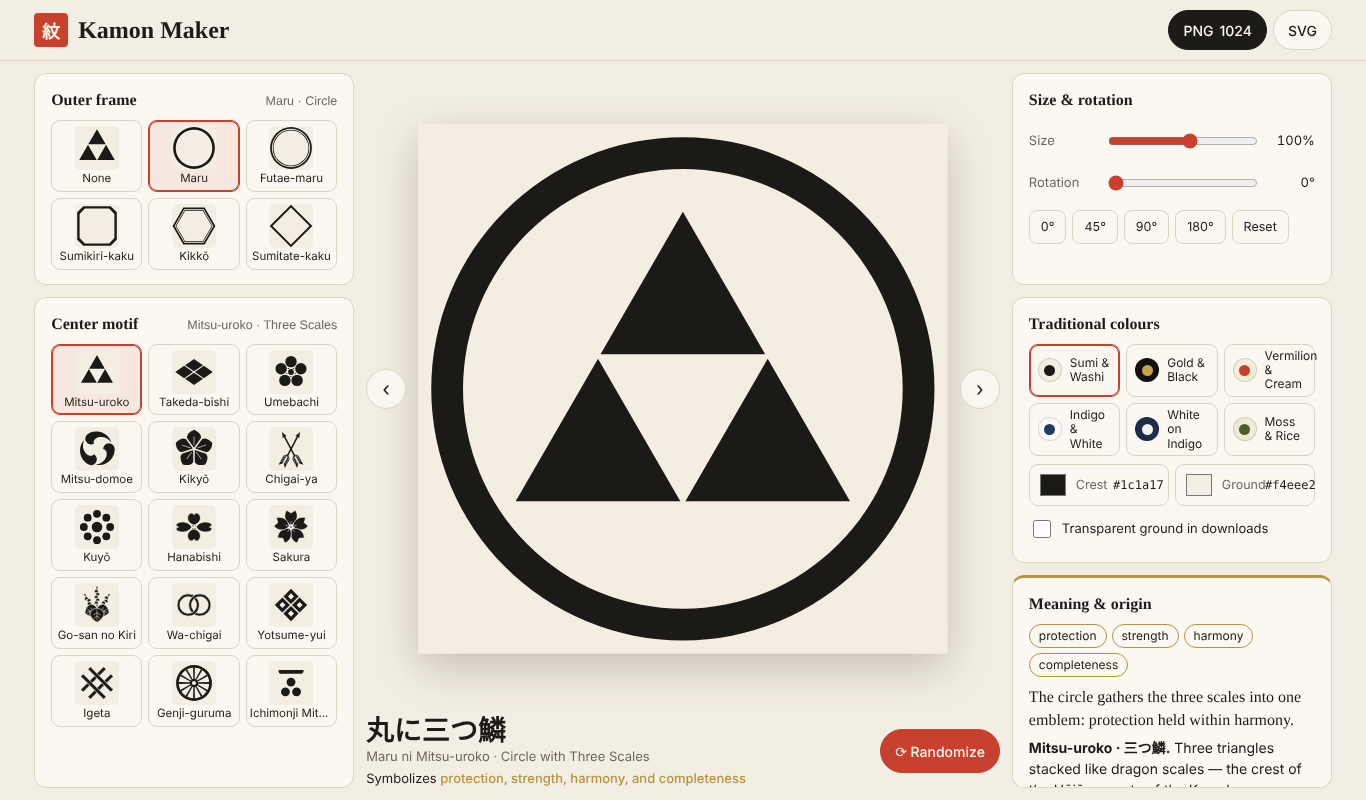
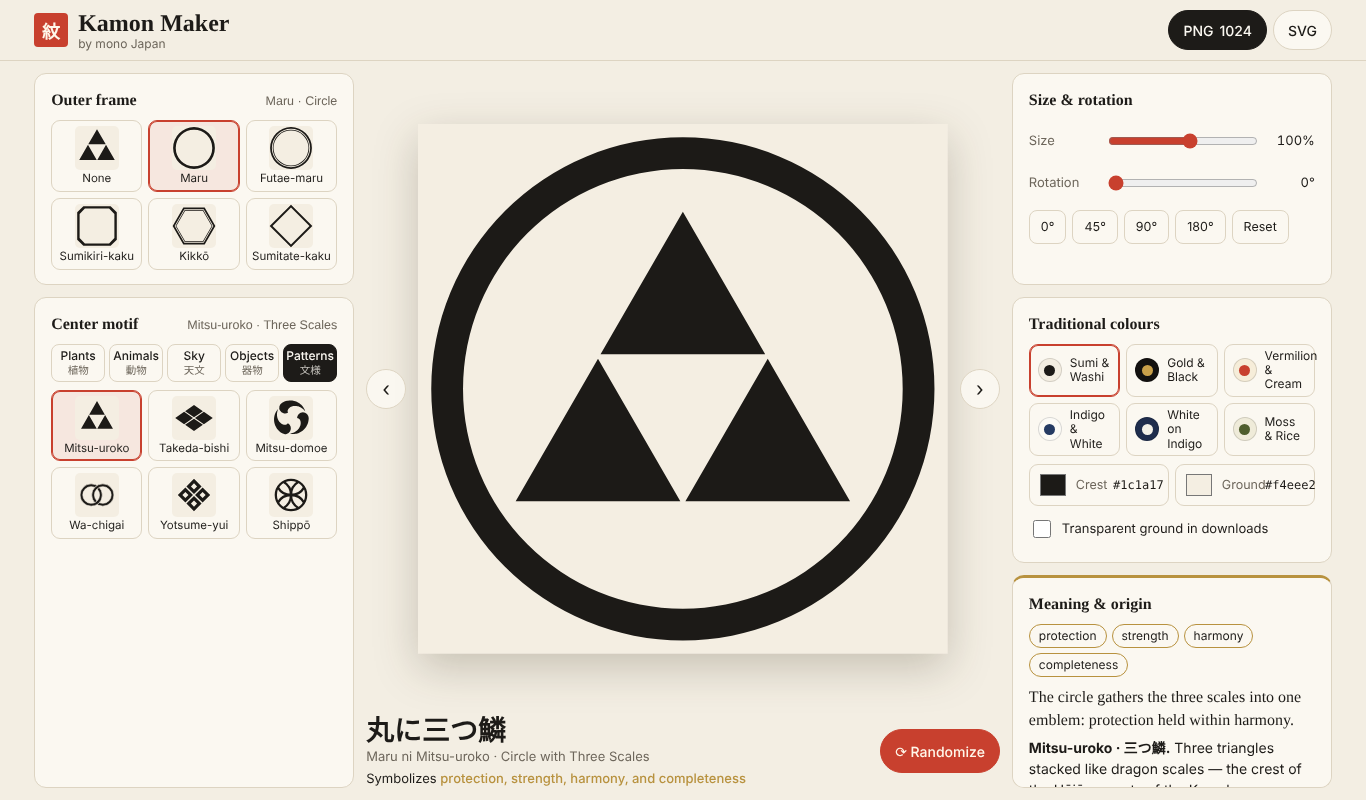
Add 14 motifs, motif categories and mono Japan credit
Claude-Session: https://claude.ai/code/session_0124S54WDTQFpv3xbj78Jc1Y

Changed region(s): [[0.0307, 0.4062, 0.246, 0.9062], [0.0615, 0.0, 0.1845, 0.0625]]

diff --git a/index.html b/index.html
@@ -29,7 +29,15 @@ button{cursor:pointer;-webkit-tap-highlight-color:transparent}
 /* header */
 .top{display:flex;align-items:center;gap:10px;padding:10px max(2.5vw,12px);border-bottom:1px solid var(--line)}
 .seal{width:34px;height:34px;background:var(--shu);color:#fff7ea;display:grid;place-items:center;font:700 18px "Shippori Mincho",serif;border-radius:4px;flex:none}
+.brand{display:flex;flex-direction:column;gap:3px;min-width:0}
 .top h1{font-size:clamp(19px,2.4vw,24px);line-height:1;white-space:nowrap}
+.by{font-size:12px;color:var(--mute);line-height:1;white-space:nowrap}
+.cats{display:grid;grid-template-columns:repeat(5,minmax(0,1fr));gap:4px;margin:0 0 8px}
+.cats button{min-height:38px;border:1px solid var(--line);border-radius:8px;background:transparent;display:grid;place-items:center;line-height:1.1;padding:3px 2px}
+.cats button span{font-size:12px;font-weight:500}
+.cats small{font-size:10.5px;color:var(--mute)}
+.cats button[aria-selected=true]{background:var(--sel);border-color:var(--sel);color:var(--selink)}
+.cats button[aria-selected=true] small{color:inherit;opacity:.75}
 .top .acts{margin-left:auto;display:flex;gap:6px}
 .btn{min-height:40px;padding:0 14px;border-radius:999px;border:1px solid var(--line);background:var(--card);font-weight:500;font-size:14px;display:inline-flex;align-items:center;gap:6px;white-space:nowrap}
 .btn:hover{border-color:var(--ink)}
@@ -179,59 +187,140 @@ const half=(cx)=>{const a=d=>[Math.cos(d*Math.PI/180),Math.sin(d*Math.PI/180)],[
 const dia=(cx,cy,a)=>poly([[cx,cy-a],[cx+a,cy],[cx,cy+a],[cx-a,cy]]);
 
 const MOTIFS=[
- {id:'uroko',name:'Mitsu-uroko',en:'Three Scales',jp:'三つ鱗',kw:['protection','strength'],
+ {id:'uroko',cat:'patterns',name:'Mitsu-uroko',en:'Three Scales',jp:'三つ鱗',kw:['protection','strength'],
   svg:()=>{const T=ngon(3,74,-Math.PI/2),m=(a,b)=>[(a[0]+b[0])/2,(a[1]+b[1])/2],ab=m(T[0],T[1]),bc=m(T[1],T[2]),ca=m(T[2],T[0]);
    return `<g transform="translate(0 6)"><path d="${[[T[0],ab,ca],[ab,T[1],bc],[ca,bc,T[2]]].map(t=>poly(shrink(t,.97))).join('')}"/></g>`},
   text:'Three triangles stacked like dragon scales — the crest of the Hōjō, regents of the Kamakura shogunate. A legend in the war chronicle Taiheiki tells how Hōjō Tokimasa prayed at Enoshima and found three scales left behind; Enoshima Shrine’s own crest was designed after this story.'},
- {id:'bishi',name:'Takeda-bishi',en:'Four Diamonds',jp:'武田菱',kw:['discipline','martial honour'],
+ {id:'bishi',cat:'patterns',name:'Takeda-bishi',en:'Four Diamonds',jp:'武田菱',kw:['discipline','martial honour'],
   svg:()=>{const a=78,b=54,c=[0,0],Q=[[0,-b],[a/2,-b/2],[a,0],[a/2,b/2],[0,b],[-a/2,b/2],[-a,0],[-a/2,-b/2]];
    return `<path d="${[[Q[0],Q[1],c,Q[7]],[Q[1],Q[2],Q[3],c],[c,Q[3],Q[4],Q[5]],[Q[7],c,Q[5],Q[6]]].map(t=>poly(shrink(t,.9))).join('')}"/>`},
   text:'A large diamond split into four — the crest of the Takeda clan of Kai province, the house of the warlord Takeda Shingen. The word hishi (diamond) is also the name of the water chestnut.'},
- {id:'ume',name:'Umebachi',en:'Plum Blossom',jp:'梅鉢',kw:['perseverance','learning'],
+ {id:'ume',cat:'plants',name:'Umebachi',en:'Plum Blossom',jp:'梅鉢',kw:['perseverance','learning'],
   svg:()=>ngon(5,41,-Math.PI/2).map(([x,y])=>`<circle cx="${f(x)}" cy="${f(y)}" r="22.5"/>`).join('')+`<circle r="11.5"/>`+ngon(5,17.5,Math.PI/2).map(([x,y])=>`<circle cx="${f(x)}" cy="${f(y)}" r="2.6"/>`).join(''),
   text:'A stylised plum blossom of five round petals. The plum flowers in late winter, so it stands for endurance. Plum crests belong to the cult of the scholar Sugawara no Michizane: Kitano Tenmangū in Kyoto, head shrine of Tenjin worship, uses a “star plum” variant.'},
- {id:'tomoe',name:'Mitsu-domoe',en:'Comma Swirl',jp:'三つ巴',kw:['cycles of life','guarding'],
+ {id:'tomoe',cat:'patterns',name:'Mitsu-domoe',en:'Comma Swirl',jp:'三つ巴',kw:['cycles of life','guarding'],
   svg:()=>{const p=tomoe();return [0,120,240].map(a=>rot(a,`<path d="${p}"/>`)).join('')},
   text:'Three comma shapes turning around a centre — one of the most common shrine crests, long associated with shrines to Hachiman, the deity the Minamoto warrior clan took as its guardian.'},
- {id:'kikyo',name:'Kikyō',en:'Bellflower',jp:'桔梗',kw:['sincerity','constancy'],
+ {id:'kikyo',cat:'plants',name:'Kikyō',en:'Bellflower',jp:'桔梗',kw:['sincerity','constancy'],
   svg:()=>{const pet=`<path d="M0-5L-27.5-43Q-29-64 0-76Q29-64 27.5-43Z"/><path d="M0-16V-48" stroke="${P}" stroke-width="2.4" stroke-linecap="round"/>`;
    return [0,72,144,216,288].map(a=>rot(a,pet)).join('')+`<circle r="6" fill="${P}"/>`},
   text:'The five pointed petals of the Chinese bellflower, a classic flower of autumn. It is associated with the Toki clan of Mino province and with Akechi Mitsuhide, who came from a branch of the Toki.'},
- {id:'ya',name:'Chigai-ya',en:'Crossed Arrows',jp:'違い矢',kw:['determination','courage'],
+ {id:'ya',cat:'objects',name:'Chigai-ya',en:'Crossed Arrows',jp:'違い矢',kw:['determination','courage'],
   svg:()=>rot(-28,arrow)+rot(28,arrow),
   text:'Two arrows crossed. Arrow crests belong to the warrior tradition; an arrow flies only forward, so the image reads as resolve and a straight path.'},
- {id:'kuyo',name:'Kuyō',en:'Nine Stars',jp:'九曜',kw:['guidance','heavenly order'],
+ {id:'kuyo',cat:'sky',name:'Kuyō',en:'Nine Stars',jp:'九曜',kw:['guidance','heavenly order'],
   svg:()=>`<circle r="21"/>`+ngon(8,52,-Math.PI/2).map(([x,y])=>`<circle cx="${f(x)}" cy="${f(y)}" r="15.5"/>`).join(''),
   text:'Nine circles for nine heavenly bodies — sun, moon, five planets and two “shadow” stars tied to eclipses — once painted on carriages and robes for protection. Hosokawa Tadaoki is said to have received it from Oda Nobunaga, and it became the Hosokawa crest.'},
- {id:'hanabishi',name:'Hanabishi',en:'Flower Diamond',jp:'花菱',kw:['elegance','grace'],
+ {id:'hanabishi',cat:'plants',name:'Hanabishi',en:'Flower Diamond',jp:'花菱',kw:['elegance','grace'],
   svg:()=>{const p=`<path d="M0-7C-16-12-26-34-14-50C-8-56-2-54 0-46C2-54 8-56 14-50C26-34 16-12 0-7Z" ${sep}/>`;
    return `<g transform="scale(1.32 1.04)">${[0,90,180,270].map(a=>rot(a,p)).join('')}</g>`+ngon(4,7,Math.PI/4).map(([x,y])=>`<circle cx="${f(x)}" cy="${f(y)}" r="2" />`).join('')},
   text:'Four heart-shaped petals set in a diamond — an old court pattern. At Izumo Taisha a four-petalled flower divided by sword blades sits inside the double tortoise shell of the shrine’s crest.'},
- {id:'sakura',name:'Sakura',en:'Cherry Blossom',jp:'桜',kw:['renewal','transience'],
+ {id:'sakura',cat:'plants',name:'Sakura',en:'Cherry Blossom',jp:'桜',kw:['renewal','transience'],
   svg:()=>{const p=`<path d="M0-8C-23-16-32-46-17-66L0-55L17-66C32-46 23-16 0-8Z" ${sep}/><path d="M0-12V-22" stroke="${P}" stroke-width="2" stroke-linecap="round"/>`;
    return [0,72,144,216,288].map(a=>rot(a,p)).join('')+`<circle r="6" fill="${P}"/><circle r="2.6"/>`},
   text:'Five notched cherry petals. The blossoms open briefly and fall together, and Japanese poetry has long read them as an image of beauty that does not last.'},
- {id:'kiri',name:'Go-san no Kiri',en:'Paulownia',jp:'五三桐',kw:['honour','authority'],
+ {id:'kiri',cat:'plants',name:'Go-san no Kiri',en:'Paulownia',jp:'五三桐',kw:['honour','authority'],
   svg:()=>`<g transform="translate(0 5) scale(.93)">`+
    `<g transform="translate(0 10) rotate(70) scale(.92)">${leaf}</g><g transform="translate(0 10) rotate(-70) scale(.92)">${leaf}</g><g transform="translate(0 8)">${leaf}</g>`+
    `<g transform="translate(0 -2)">${stalk(5)}</g><g transform="translate(-24 -2) rotate(-30)">${stalk(3)}</g><g transform="translate(24 -2) rotate(30)">${stalk(3)}</g></g>`,
   text:'Three leaves beneath three flower stalks bearing 3-5-3 blossoms. Paulownia crests were once linked with the imperial court and were later used by Toyotomi Hideyoshi; a 5-7 version is today the emblem of the Japanese government.'},
- {id:'wachigai',name:'Wa-chigai',en:'Linked Rings',jp:'輪違い',kw:['bonds','partnership'],
+ {id:'wachigai',cat:'patterns',name:'Wa-chigai',en:'Linked Rings',jp:'輪違い',kw:['bonds','partnership'],
   svg:()=>wring(-23)+wring(23)+half(-23),
   text:'Two rings passed through each other. Each keeps its own shape, yet neither can leave — a simple picture of a bond.'},
- {id:'yotsume',name:'Yotsume-yui',en:'Four Eyes',jp:'四つ目結',kw:['kinship','steadfastness'],
+ {id:'yotsume',cat:'patterns',name:'Yotsume-yui',en:'Four Eyes',jp:'四つ目結',kw:['kinship','steadfastness'],
   svg:()=>`<path fill-rule="evenodd" d="${[[0,-34],[34,0],[0,34],[-34,0]].map(([x,y])=>dia(x,y,30)+dia(x,y,12)).join('')}"/>`,
   text:'Four square “eyes” of tie-dyed cloth arranged as a diamond. The four-eye knot is the crest of the Sasaki clan of Ōmi and its branches, such as the Rokkaku.'},
- {id:'igeta',name:'Igeta',en:'Well Curb',jp:'井桁',kw:['source','abundance'],
+ {id:'igeta',cat:'objects',name:'Igeta',en:'Well Curb',jp:'井桁',kw:['source','abundance'],
   svg:()=>{const b=(x,y,w,h)=>`<rect x="${x}" y="${y}" width="${w}" height="${h}" ${sep}/>`;
    return `<g transform="rotate(45)">${b(-27,-64,14,128)+b(13,-64,14,128)+b(-64,-27,128,14)+b(-64,13,128,14)}</g>`},
   text:'The crossed beams of a wooden well curb. A well meant a dependable source; the Sumitomo group still uses a diamond-turned well curb as its mark, explained as a symbol of a spring.'},
- {id:'guruma',name:'Genji-guruma',en:'Court Wheel',jp:'源氏車',kw:['refinement','turning fortune'],
+ {id:'guruma',cat:'objects',name:'Genji-guruma',en:'Court Wheel',jp:'源氏車',kw:['refinement','turning fortune'],
   svg:()=>`<path fill-rule="evenodd" d="${circ(71)+circ(60)+circ(17)+circ(8)}"/>`+Array.from({length:12},(_,i)=>rot(i*30,`<path d="M-2.6-16L-3.6-61H3.6L2.6-16Z"/>`)).join(''),
   text:'The wheel of a Heian courtier’s ox-cart. It is called the Genji wheel because such carts fill the painted scenes of The Tale of Genji; wheel crests recall the splendour of court life.'},
- {id:'mitsuboshi',name:'Ichimonji Mitsuboshi',en:'One & Three Stars',jp:'一文字に三つ星',kw:['unity','aim'],
+ {id:'mitsuboshi',cat:'sky',name:'Ichimonji Mitsuboshi',en:'One & Three Stars',jp:'一文字に三つ星',kw:['unity','aim'],
   svg:()=>`<g transform="scale(.92)"><path d="M-54-50Q-56-56-46-56H50Q58-56 54-48Q50-40 44-40H-46Q-52-40-54-50Z"/><circle cy="-4" r="19"/><circle cx="-24" cy="38" r="19"/><circle cx="24" cy="38" r="19"/></g>`,
-  text:'The character 一 (“one”) above three stars — the crest of the Mōri clan, lords of Chōshū, still seen throughout the family’s former residence in Hōfu.'}
+  text:'The character 一 (“one”) above three stars — the crest of the Mōri clan, lords of Chōshū, still seen throughout the family’s former residence in Hōfu.'},
+ /* ---- added: animals ---- */
+ {id:'chidori',cat:'animals',name:'Chidori',en:'Plover',jp:'千鳥',kw:['companionship','overcoming'],
+  svg:()=>`<g transform="translate(-4 -4)"><path d="M-52-18L-38-23C-36-41-12-45-2-31C14-17 36-23 62-42C52-10 34 20 0 22C-30 22-44 6-40-12Z"/>`+
+   `<circle cx="-27" cy="-27" r="3.4" fill="${P}"/><path d="M-8-4C10 8 32 2 46-18" fill="none" stroke="${P}" stroke-width="3" stroke-linecap="round"/>`+
+   `<path d="M-8 20L-14 46M-22 48L-6 46M8 20L4 46M-4 48L12 46" fill="none" stroke="currentColor" stroke-width="3.4" stroke-linecap="round"/></g>`,
+  text:'A small shorebird drawn as a plump curve. Plovers flocking low over waves are a favourite image in Japanese design.'},
+ {id:'cho',cat:'animals',name:'Chō',en:'Butterfly',jp:'蝶',kw:['transformation','long life'],
+  svg:()=>{const w=`<path d="M3-6C20-52 64-64 67-39C69-18 40-6 3-2Z" ${sep}/><path d="M3 2C30 4 54 18 46 40C44 46 40 52 44 66C32 58 27 52 21 47C10 41 4 24 3 2Z" ${sep}/>`+
+   `<path d="M14-12L50-40M18-6L58-24M14 10L36 34" stroke="${P}" stroke-width="2.2" stroke-linecap="round"/>`;
+   return `<g transform="translate(0 -2)">${w}<g transform="scale(-1 1)">${w}</g><ellipse rx="5" ry="32" cy="4"/><circle cy="-34" r="6.5"/>`+
+   `<path d="M-3-39Q-10-56-20-64M3-39Q10-56 20-64" fill="none" stroke="currentColor" stroke-width="2.6" stroke-linecap="round"/><circle cx="-20" cy="-64" r="3.5"/><circle cx="20" cy="-64" r="3.5"/></g>`},
+  text:'A butterfly with wings spread. Because a caterpillar becomes a butterfly, it stands for transformation and rebirth. Butterfly crests were favoured by the Taira (Heike) clan, whose emblem was a swallowtail with raised wings.'},
+ {id:'usagi',cat:'animals',name:'Usagi',en:'Rabbit',jp:'兎',kw:['agility','good luck'],
+  svg:()=>`<g transform="translate(-6 10)"><ellipse cx="10" cy="14" rx="44" ry="32"/><circle cx="-28" cy="-8" r="22"/>`+
+   `<ellipse cx="-4" cy="-50" rx="9" ry="30" transform="rotate(38 -4 -50)"/><ellipse cx="-16" cy="-52" rx="9" ry="31" transform="rotate(22 -16 -52)" ${sep}/>`+
+   `<circle cx="56" cy="4" r="9"/><ellipse cx="-20" cy="44" rx="17" ry="7"/><circle cx="-35" cy="-12" r="3.6" fill="${P}"/>`+
+   `<path d="M-8 36C10 30 30 30 44 38" fill="none" stroke="${P}" stroke-width="2.6" stroke-linecap="round"/></g>`,
+  text:'A crouching rabbit. In Japan the shadows on the full moon are read as a rabbit pounding rice cakes, so the rabbit carries a quiet, lunar charm.'},
+ {id:'tonbo',cat:'animals',name:'Tonbo',en:'Dragonfly',jp:'蜻蛉',kw:['victory','courage'],
+  svg:()=>{const wing=(cx,cy,r)=>`<ellipse cx="${cx}" cy="${cy}" rx="35" ry="9.5" transform="rotate(${r} ${cx} ${cy})" ${sep}/>`;
+   return `<g transform="translate(0 2)">`+wing(34,-40,-8)+wing(-34,-40,8)+wing(32,-20,12)+wing(-32,-20,-12)+
+   `<path d="M-4-26H4L3 66H-3Z"/><ellipse cy="-32" rx="8" ry="12"/><circle cy="-52" r="9.5"/>`+
+   [-10,6,22,38,54].map(y=>`<path d="M-4 ${y}H4" stroke="${P}" stroke-width="1.6"/>`).join('')+`</g>`},
+  text:'A dragonfly seen from above. Samurai called it kachimushi, the “victory insect”, because it darts forward and never retreats; Maeda Toshiie is said to have worn one as the crest of his helmet.'},
+ {id:'takanoha',cat:'animals',name:'Chigai Taka-no-ha',en:'Crossed Hawk Feathers',jp:'違い鷹の羽',kw:['valour','vigilance'],
+  svg:()=>{const fe=`<path d="M0-74C22-58 24-12 18 46L0 70L-18 46C-24-12-22-58 0-74Z" ${sep}/><path d="M0-64V72" stroke="${P}" stroke-width="2.6"/>`+
+   [-42,-16,10,34].map(y=>`<path d="M-22 ${y+8}L22 ${y-8}" stroke="${P}" stroke-width="5.5"/>`).join('');
+   return rot(-32,fe)+rot(32,fe)},
+  text:'Two hawk feathers crossed — one of the most widely used warrior crests, borne for example by the Asano family, lords of Akō. The hawk was the prized bird of falconry and stands for alertness and valour.'},
+ {id:'kame',cat:'animals',name:'Kame',en:'Tortoise',jp:'亀',kw:['longevity','steadiness'],
+  svg:()=>{const leg=(x,y,r)=>`<ellipse cx="${x}" cy="${y}" rx="9" ry="15" transform="rotate(${r} ${x} ${y})"/>`;
+   const hex=ngon(6,15,Math.PI/2);
+   return leg(38,-28,50)+leg(-38,-28,-50)+leg(36,36,-40)+leg(-36,36,40)+`<path d="M-5 50L0 66L5 50Z"/><ellipse cy="-52" rx="11" ry="14"/>`+
+   `<ellipse cy="4" rx="40" ry="47" ${sep}/><path d="${poly(hex.map(([x,y])=>[x,y+4]))}" fill="none" stroke="${P}" stroke-width="2.4"/>`+
+   hex.map(([x,y])=>`<path d="M${f(x)} ${f(y+4)}L${f(x*2.6)} ${f(y*2.9+4)}" stroke="${P}" stroke-width="2.4"/>`).join('')},
+  text:'A tortoise seen from above, its shell marked with hexagons. With the crane, the tortoise is Japan’s classic emblem of long life.'},
+ /* ---- added: sky & nature ---- */
+ {id:'yukiwa',cat:'sky',name:'Yukiwa',en:'Snow Ring',jp:'雪輪',kw:['purity','abundance'],
+  svg:()=>{const sc=(rn,R)=>{const pts=ngon(6,rn,-Math.PI/2),c=2*rn*Math.sin(Math.PI/6),s=R-rn*Math.cos(Math.PI/6),rad=f((c*c/4+s*s)/(2*s));
+    return 'M'+pts[0].map(f).join(' ')+pts.map((_,i)=>`A${rad} ${rad} 0 0 1 ${pts[(i+1)%6].map(f).join(' ')}`).join('')+'Z'};
+   const arm=`<path d="M0-6V-28M0-18L-7-25M0-18L7-25" stroke="currentColor" stroke-width="4" stroke-linecap="round" fill="none"/>`;
+   return `<path fill-rule="evenodd" d="${sc(62,72)+sc(49,58)}"/>`+[0,60,120,180,240,300].map(a=>rot(a,arm)).join('')+`<circle r="5"/>`},
+  text:'The outline of a snowflake softened into six scallops, a pattern found in Japanese design since the Heian period. Snow was believed to bring a rich harvest, so the snow ring is an auspicious sign.'},
+ {id:'mikazuki',cat:'sky',name:'Mikazuki',en:'Crescent Moon',jp:'三日月',kw:['serenity','new beginnings'],
+  svg:()=>`<g transform="rotate(-18)"><path d="M-3.9-65.9A66 66 0 1 0 58 31.5A58 58 0 1 1-3.9-65.9Z"/></g>`,
+  text:'The thin moon of the third night. A waxing crescent is a moon still growing, a quiet image of something beginning.'},
+ {id:'fuji',cat:'sky',name:'Fuji',en:'Mount Fuji',jp:'富士',kw:['aspiration','steadfastness'],
+  svg:()=>`<g transform="translate(0 -4) scale(.88)"><path d="M-76 42C-44 20-28-8-20-34L-11-27L0-38L11-27L20-34C28-8 44 20 76 42Z"/>`+
+   `<path d="M-16-26L-11-20L0-30L11-20L16-26L22-10L13-3L5-11L-3-1L-12-10L-22-10Z" fill="${P}"/>`+
+   `<rect x="-58" y="52" width="116" height="8" rx="4"/><rect x="-36" y="66" width="72" height="8" rx="4"/></g>`,
+  text:'Japan’s highest mountain, with its snow-capped triple summit above bands of mist. Fuji has been revered for centuries as a sacred peak.'},
+ /* ---- added: plants ---- */
+ {id:'aoi',cat:'plants',name:'Mitsuba-aoi',en:'Three Hollyhock Leaves',jp:'三つ葉葵',kw:['authority','protection'],
+  svg:()=>{const lf=`<path d="M0-14C-6-8-30-12-32-32C-34-52-14-66 0-74C14-66 34-52 32-32C30-12 6-8 0-14Z"/>`+
+   `<path d="M0-18V-66M0-30L-16-24M0-30L16-24M0-42L-20-40M0-42L20-40M0-54L-16-56M0-54L16-56" fill="none" stroke="${P}" stroke-width="2" stroke-linecap="round"/>`+
+   `<path d="M0 0V-16" stroke="currentColor" stroke-width="4.5"/>`;
+   return [0,120,240].map(a=>rot(a,lf)).join('')+`<circle r="6"/>`},
+  text:'Three heart-shaped leaves meeting at the centre — the crest of the Tokugawa shoguns, still seen in gold at Nikkō Tōshōgū, the shrine dedicated to Tokugawa Ieyasu.'},
+ {id:'icho',cat:'plants',name:'Mitsu-ichō',en:'Three Ginkgo Leaves',jp:'三つ銀杏',kw:['endurance','long life'],
+  svg:()=>{const lf=`<path d="M0-12L-38-54A56 56 0 0 1-4-68L0-55L4-68A56 56 0 0 1 38-54Z" ${sep}/>`+
+   `<path d="M0 0V-14" stroke="currentColor" stroke-width="4"/>`;
+   return [0,120,240].map(a=>rot(a,lf)).join('')+`<circle r="5"/>`},
+  text:'Three fan-shaped ginkgo leaves. The ginkgo is a long-lived tree often planted at temples and shrines, and its leaves turn brilliant gold in autumn.'},
+ /* ---- added: objects ---- */
+ {id:'ogi',cat:'objects',name:'Ōgi',en:'Folding Fan',jp:'扇',kw:['prosperity','growth'],
+  svg:()=>{const C=[0,48],R=86,r=40,a0=-90-54,a1=-90+54,pt=(rr,a)=>[C[0]+rr*Math.cos(a*Math.PI/180),C[1]+rr*Math.sin(a*Math.PI/180)].map(f).join(' ');
+   const ribs=Array.from({length:10},(_,i)=>a0+i*(a1-a0)/9);
+   return `<g transform="translate(0 -6)"><path d="M${pt(R,a0)}A${R} ${R} 0 0 1 ${pt(R,a1)}L${pt(r,a1)}A${r} ${r} 0 0 0 ${pt(r,a0)}Z"/>`+
+   ribs.slice(1,-1).map(a=>`<path d="M${pt(r+3,a)}L${pt(R-3,a)}" stroke="${P}" stroke-width="2"/>`).join('')+
+   ribs.map(a=>`<path d="M${pt(6,a)}L${pt(r,a)}" stroke="currentColor" stroke-width="3.4" stroke-linecap="round"/>`).join('')+`<circle cx="0" cy="48" r="7"/><circle cx="0" cy="48" r="2.6" fill="${P}"/></g>`},
+  text:'An opened folding fan. Its shape is called suehiro, “widening toward the end”, because it spreads outward from the pivot — a classic sign of a future that grows and prospers.'},
+ {id:'fundo',cat:'objects',name:'Fundō',en:'Balance Weight',jp:'分銅',kw:['fairness','wealth'],
+  svg:()=>`<path d="M-46-56H46Q54-56 52-46A52 52 0 0 0 52 46Q54 56 46 56H-46Q-54 56-52 46A52 52 0 0 0-52-46Q-54-56-46-56Z"/>`+
+   `<path d="M-38-46H38M-38 46H38" stroke="${P}" stroke-width="2.6" stroke-linecap="round"/>`,
+  text:'The weight used with a merchant’s balance scale, recognisable by its deeply curved sides. It speaks of honest measure and of wealth weighed out with care.'},
+ /* ---- added: patterns ---- */
+ {id:'shippo',cat:'patterns',name:'Shippō',en:'Seven Treasures',jp:'七宝',kw:['harmony','connection'],
+  svg:()=>{const R=60,y=f(R*Math.sqrt(3)/2),x=R/2;
+   return `<g fill="none" stroke="currentColor" stroke-width="9"><circle r="${R}"/>`+
+   `<path d="M${x}-${y}A${R} ${R} 0 0 0 ${x} ${y}M-${x}-${y}A${R} ${R} 0 0 1-${x} ${y}M-${y}-${x}A${R} ${R} 0 0 0 ${y}-${x}M-${y} ${x}A${R} ${R} 0 0 1 ${y} ${x}"/></g>`},
+  text:'Circles overlapping by a quarter, named after the seven treasures of Buddhism. The endlessly linked rings are read as harmony and good relationships.'},
 ];
 
 const PRESETS=[
@@ -257,11 +346,13 @@ const DEFAULT={frame:'maru',motif:'uroko',size:100,rot:0,ink:'#1c1a17',paper:'#f
 const load=()=>{try{const o={...DEFAULT,...JSON.parse(localStorage.getItem('kamon')||'{}')};if(!MOTIFS.some(m=>m.id===o.motif))o.motif='uroko';if(!FRAMES.some(m=>m.id===o.frame))o.frame='maru';return o}catch(e){return DEFAULT}};
 const pick=a=>a[Math.floor(Math.random()*a.length)];
 const andList=k=>k.length>2?k.slice(0,-1).join(', ')+', and '+k.at(-1):k.join(' and ');
+const CATS=[['plants','Plants','植物'],['animals','Animals','動物'],['sky','Sky','天文'],['objects','Objects','器物'],['patterns','Patterns','文様']];
 const TABS=[['frame','Frame'],['motif','Motif'],['adjust','Adjust'],['color','Colour'],['meaning','Meaning']];
 
 function App(){
  const [s,setS]=useState(load);
  const [tab,setTab]=useState('motif');
+ const [cat,setCat]=useState(()=>(MOTIFS.find(m=>m.id===load().motif)||MOTIFS[0]).cat);
  const [pop,setPop]=useState(0);
  const [toast,setToast]=useState('');
  const [modal,setModal]=useState(null);
@@ -278,6 +369,7 @@ function App(){
   addEventListener('keydown',k);return()=>removeEventListener('keydown',k)},[step]);
 
  const fr=FRAMES.find(x=>x.id===s.frame),mo=MOTIFS.find(x=>x.id===s.motif);
+ useEffect(()=>{setCat(mo.cat)},[mo.id]);
  const preview=useMemo(()=>buildSVG(s,{size:600}),[s]);
  const kws=[...mo.kw,...(fr.kw||[])];
  const fname=`kamon-${fr.id==='none'?'':fr.id+'-'}${mo.id}`;
@@ -306,7 +398,7 @@ function App(){
 
  return html`<div class="app">
   <header class="top">
-   <div class="seal" aria-hidden="true">紋</div><h1>Kamon Maker</h1>
+   <div class="seal" aria-hidden="true">紋</div><div class="brand"><h1>Kamon Maker</h1><span class="by">by mono Japan</span></div>
    <div class="acts"><button class="btn ink" onClick=${savePNG}>PNG<span class="hide-s"> 1024</span></button><button class="btn" onClick=${saveSVG}>SVG</button></div>
   </header>
   <main class="body">
@@ -330,7 +422,8 @@ function App(){
     <div class="grid">${FRAMES.map(x=>opt('frame',x,buildSVG({...thumbS,frame:x.id},{size:46,frameOnly:x.id!=='none'}),x.name+(x.en?' — '+x.en:'')))}</div></section>
 
    <section class="panel p-motif" hidden=${hid('motif')}><h3>Center motif <em>${mo.name} · ${mo.en}</em></h3>
-    <div class="grid m">${MOTIFS.map(x=>opt('motif',x,buildSVG({...thumbS,motif:x.id},{size:46,motifOnly:true}),x.name+' — '+x.en))}</div></section>
+    <div class="cats" role="tablist" aria-label="Motif categories">${CATS.map(([id,l,j])=>html`<button key=${id} role="tab" aria-selected=${cat===id} onClick=${()=>setCat(id)}><span>${l}</span><small>${j}</small></button>`)}</div>
+    <div class="grid m">${MOTIFS.filter(x=>x.cat===cat).map(x=>opt('motif',x,buildSVG({...thumbS,motif:x.id},{size:46,motifOnly:true}),x.name+' — '+x.en))}</div></section>
 
    <section class="panel p-adjust" hidden=${hid('adjust')}><h3>Size & rotation</h3>
     <div class="row"><label for="sz">Size</label><input id="sz" type="range" min="50" max="140" step="1" value=${s.size} onInput=${e=>set({size:+e.target.value})}/><output>${s.size}%</output></div>

diff --git a/README.md b/README.md
@@ -1,15 +1,22 @@
 # Kamon Maker — Japanese Family Crest Generator
 
+*by mono Japan*
+
 Design your own Japanese family crest (*kamon*) in the browser. Pick an outer frame and a center motif, adjust size, rotation and traditional colours, read what your combination symbolizes, and download it as a 1024×1024 PNG or a scalable SVG.
 
-**Live demo:** https://YOUR-USERNAME.github.io/kamon-maker/
+**Live demo:** https://elkinostudio.github.io/kamon-maker/
 
 ![Kamon Maker on desktop](screenshot-desktop.png)
 
 ## Features
 
 - **6 outer frames** — None, Maru (Circle), Futae-maru (Double Circle), Sumikiri-kaku (Cut-corner Square), Kikkō (Tortoise Shell), Sumitate-kaku (Diamond Square)
-- **15 center motifs** — Mitsu-uroko, Takeda-bishi, Umebachi, Mitsu-domoe, Kikyō, Chigai-ya, Kuyō, Hanabishi, Sakura, Go-san no Kiri, Wa-chigai, Yotsume-yui, Igeta, Genji-guruma, Ichimonji Mitsuboshi
+- **29 center motifs in 5 categories**
+  - Plants: Umebachi, Kikyō, Hanabishi, Sakura, Go-san no Kiri, Mitsuba-aoi, Mitsu-ichō
+  - Animals: Chidori, Chō, Usagi, Tonbo, Chigai Taka-no-ha, Kame
+  - Sky & Nature: Kuyō, Ichimonji Mitsuboshi, Yukiwa, Mikazuki, Fuji
+  - Objects: Chigai-ya, Igeta, Genji-guruma, Ōgi, Fundō
+  - Patterns: Mitsu-uroko, Takeda-bishi, Mitsu-domoe, Wa-chigai, Yotsume-yui, Shippō
 - **Size and rotation** controls
 - **Traditional colour presets** plus free colour pickers, with an optional transparent background
 - **Meaning & origin card** that describes your combination in English
